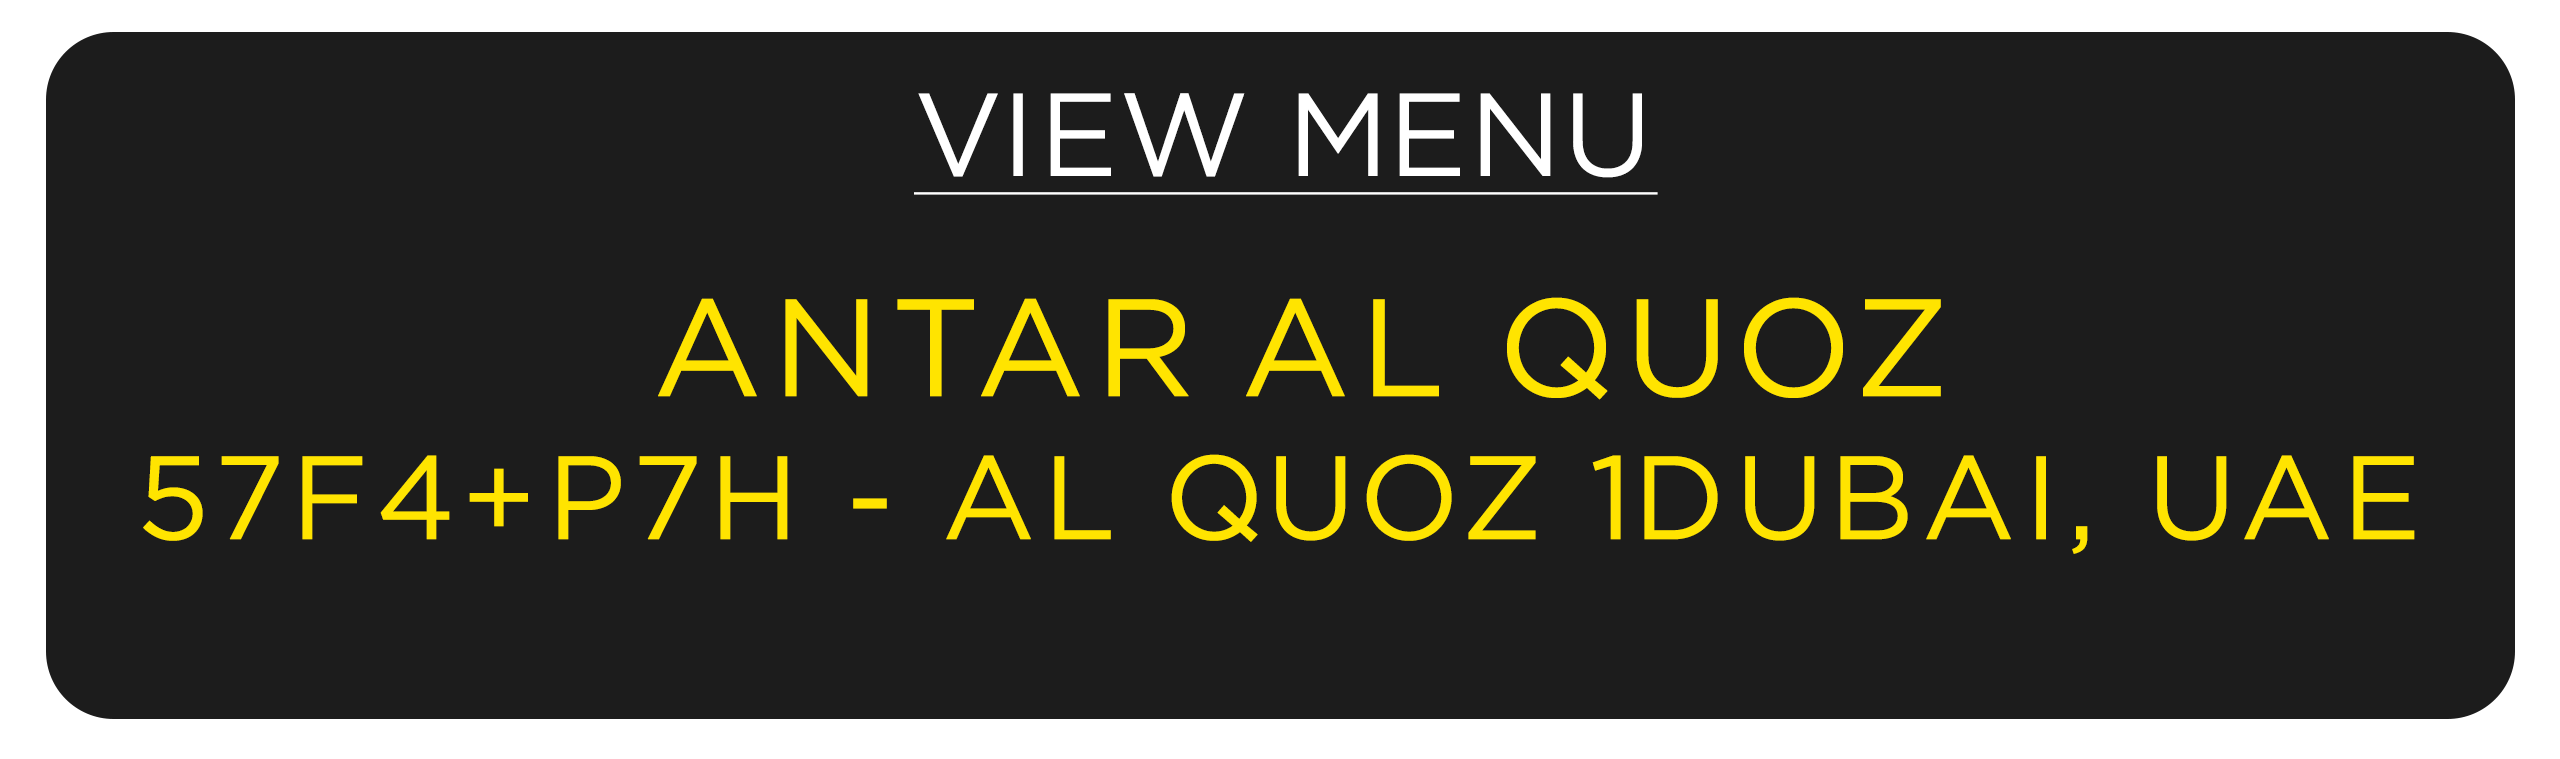
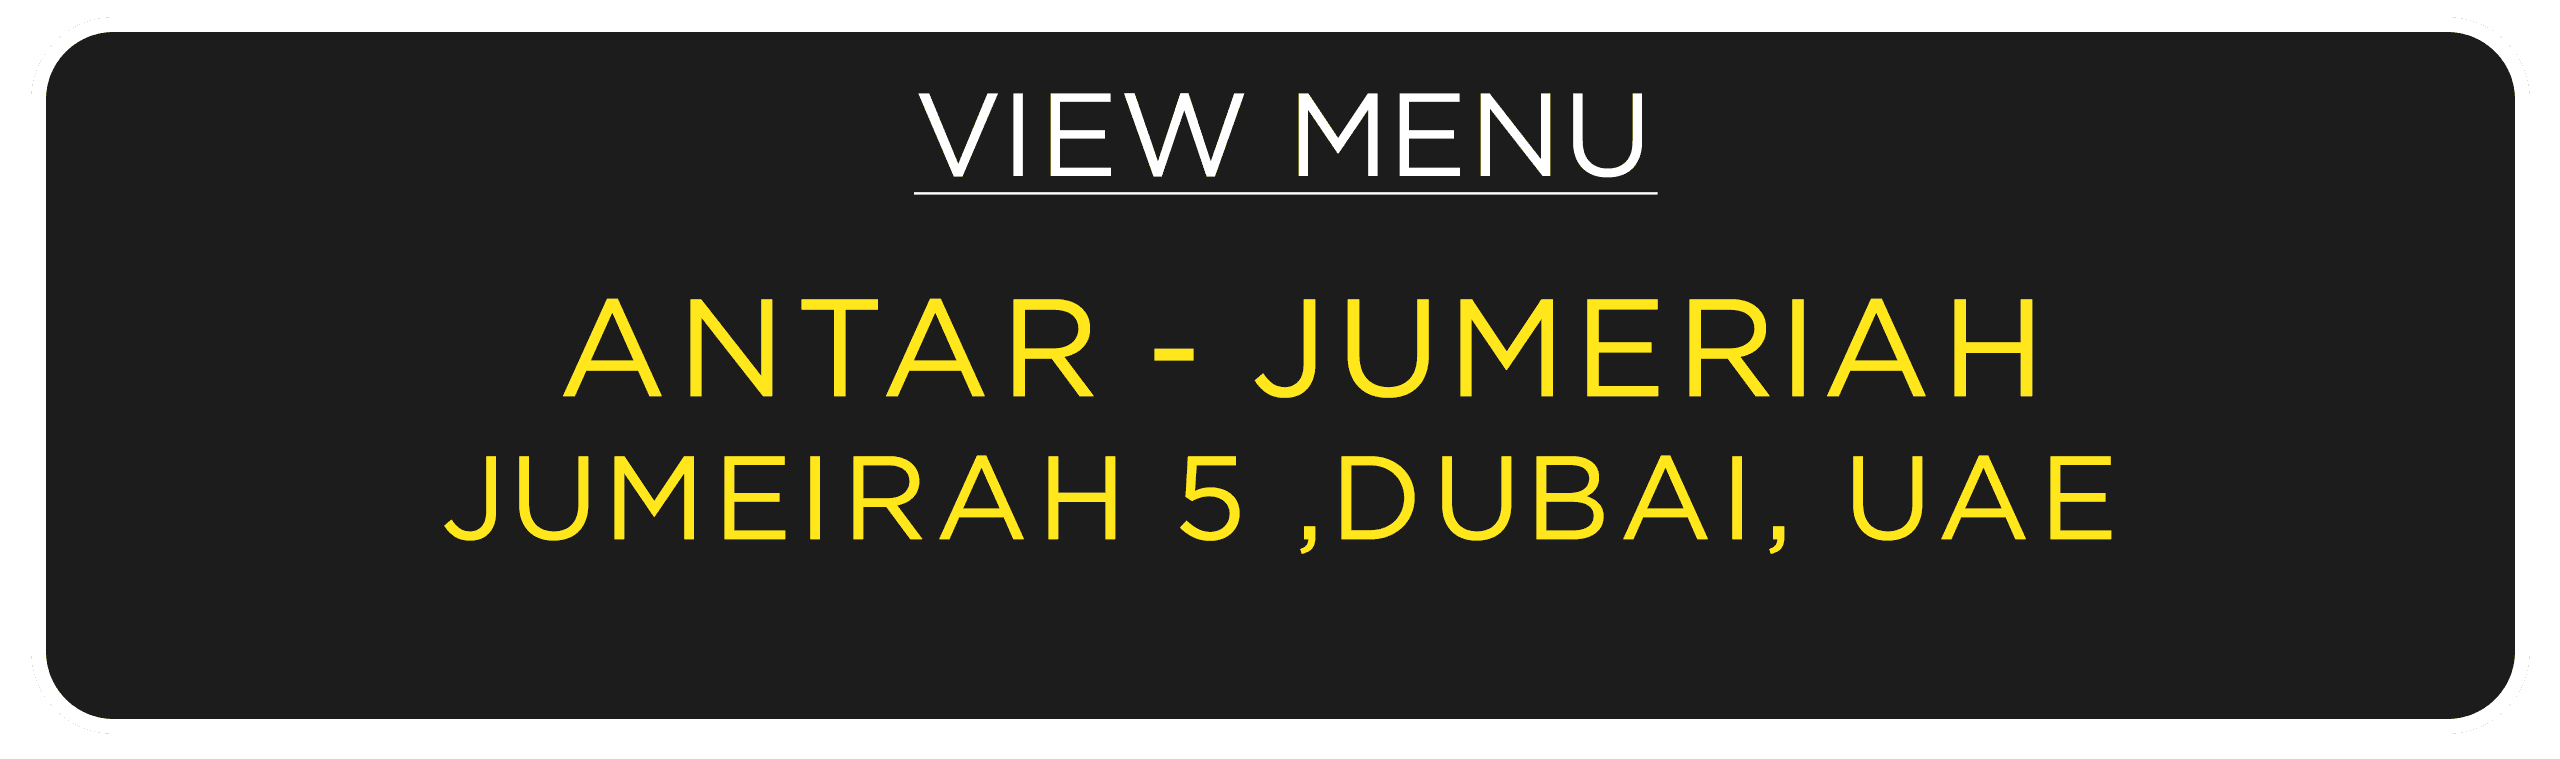
Add files via upload

Changed region(s): [[0.0312, 0.5758, 0.9375, 0.7273], [0.2188, 0.3939, 0.8125, 0.5455]]

diff --git a/m1/antar/index.html b/m1/antar/index.html
@@ -20,8 +20,18 @@
 				<div  style="width: 70%; padding-top: 2em;" ><a target="_blank" href=""><img src="logo.png" alt="img01" style="width: 75%;" /></a></div>
 				<div style="width: 100%; align-items: center; text-align: center;font-size: x-large; color: white; font-weight: 800; margin-bottom: 1em; margin-top: 1em;"><span >Click on the branch for our location and menu</span></div>
 				<div  style="width: 65%;" ><a target="_blank" href="https://nationalprintdubai.com/m1/antar/br1/"><img src="1.png" alt="img01" style="width: 100%;" /></a></div>
-				<!-- <div  style="width: 65%; padding-top: 1em;"><a target="_blank" href="https://nationalprintdubai.com/m1/antar/br2/"><img src="2.png" alt="img01" style="width: 100%;"/></a></div>
-				<div style="width: 65%;padding-top: 1em;"><a target="_blank" href="https://nationalprintdubai.com/m1/antar/br3/"><img src="3.png" alt="img01" style="width: 100%;" /></a></div> -->
+				<div  style="width: 65%;" ><a target="_blank" href="https://nationalprintdubai.com/m1/antar/br2/"><img src="2.png" alt="img01" style="width: 100%;" /></a></div>
+				<div  style="width: 65%;" ><a target="_blank" href="https://nationalprintdubai.com/m1/antar/br3/"><img src="3.png" alt="img01" style="width: 100%;" /></a></div>
+				<div  style="width: 65%;" ><a target="_blank" href="https://nationalprintdubai.com/m1/antar/br4/"><img src="4.png" alt="img01" style="width: 100%;" /></a></div>
+				<div  style="width: 65%;" ><a target="_blank" href="https://nationalprintdubai.com/m1/antar/br5/"><img src="5.png" alt="img01" style="width: 100%;" /></a></div>
+				<div  style="width: 65%;" ><a target="_blank" href="https://nationalprintdubai.com/m1/antar/br6/"><img src="6.png" alt="img01" style="width: 100%;" /></a></div>
+				<div  style="width: 65%;" ><a target="_blank" href="https://nationalprintdubai.com/m1/antar/br7/"><img src="7.png" alt="img01" style="width: 100%;" /></a></div>
+				<div  style="width: 65%;" ><a target="_blank" href="https://nationalprintdubai.com/m1/antar/br8/"><img src="8.png" alt="img01" style="width: 100%;" /></a></div>
+				<div  style="width: 65%;" ><a target="_blank" href="https://nationalprintdubai.com/m1/antar/br9/"><img src="9.png" alt="img01" style="width: 100%;" /></a></div>
+				<div  style="width: 65%;" ><a target="_blank" href="https://nationalprintdubai.com/m1/antar/br10/"><img src="10.png" alt="img01" style="width: 100%;" /></a></div>
+				<div  style="width: 65%;" ><a target="_blank" href="https://nationalprintdubai.com/m1/antar/br11/"><img src="11.png" alt="img01" style="width: 100%;" /></a></div>
+				<div  style="width: 65%;" ><a target="_blank" href="https://nationalprintdubai.com/m1/antar/br12/"><img src="12.png" alt="img01" style="width: 100%;" /></a></div>
+				
 			</div>
 		</div>
 		<script src="../menu1/js/jquery.min.js"></script>
